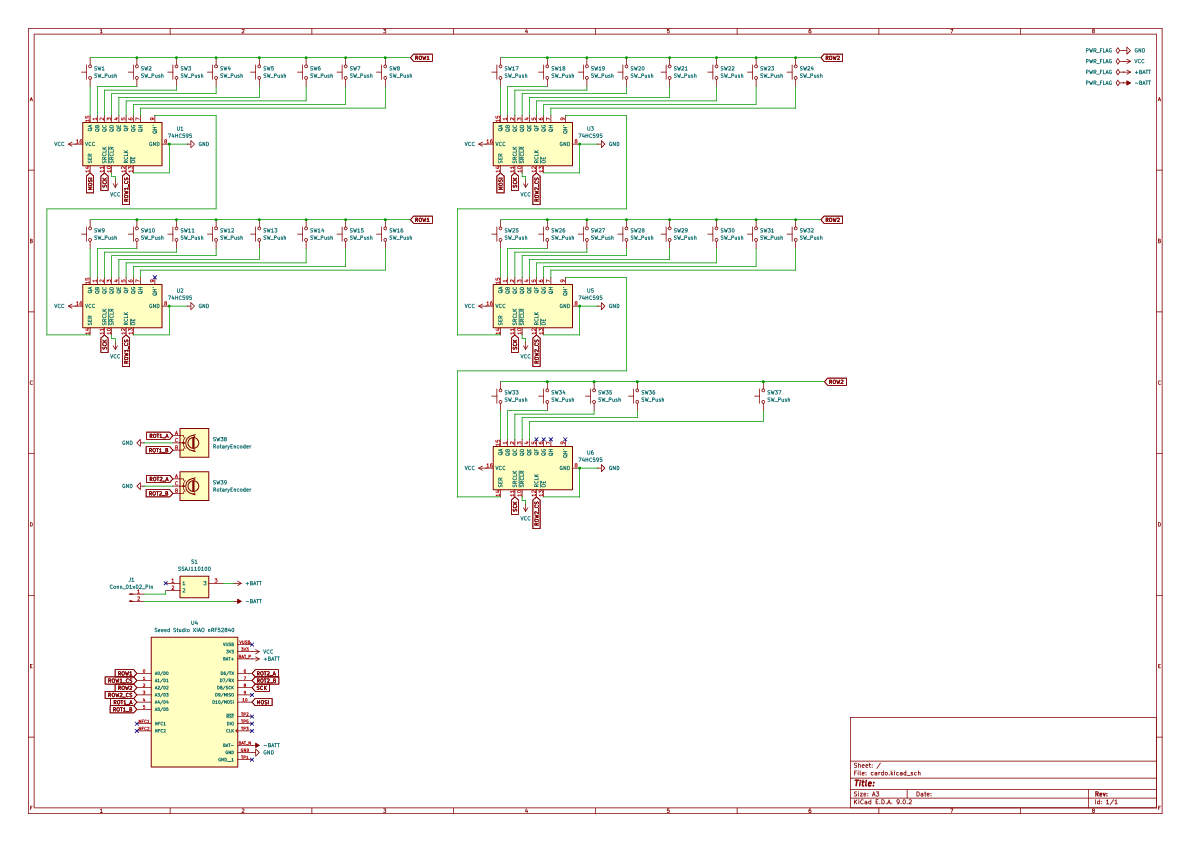
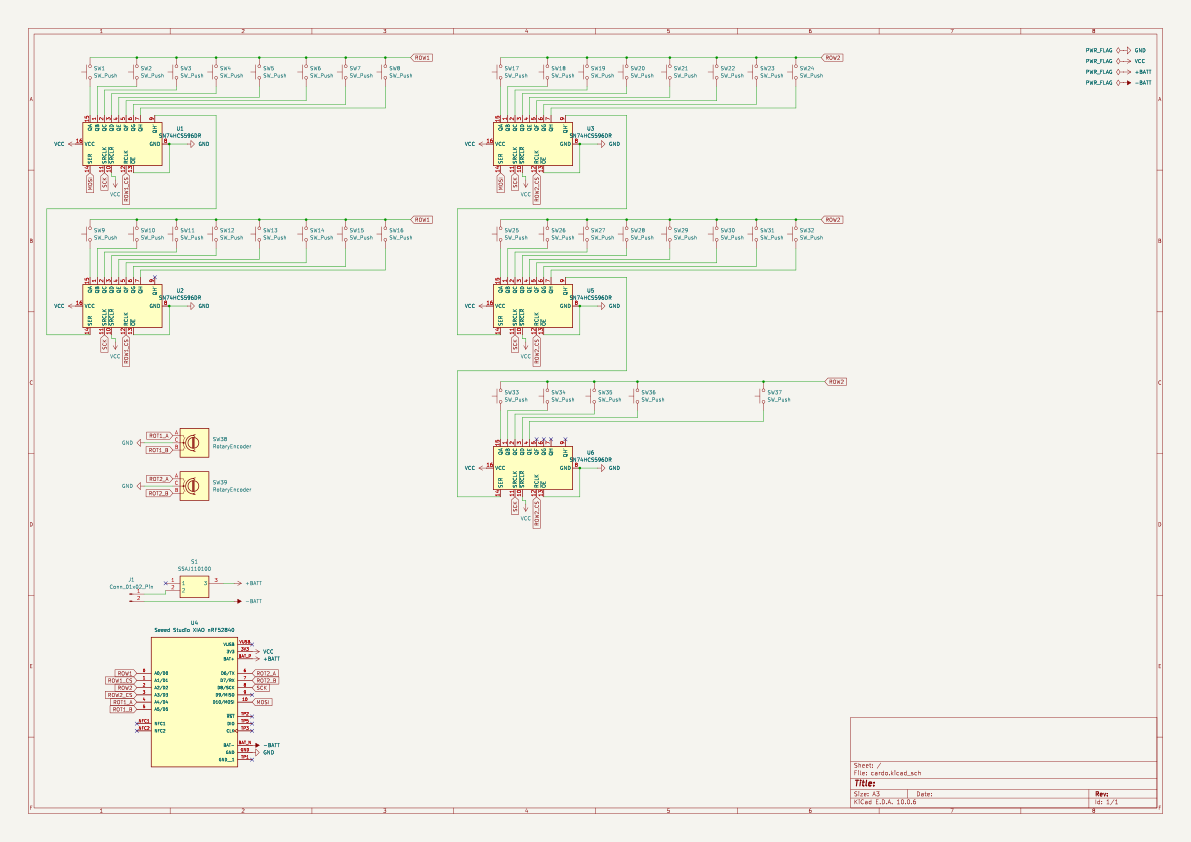
Update hardware files for SN74HCS596

diff --git a/README.md b/README.md
@@ -42,7 +42,7 @@ This is a custom ergonomic wireless keyboard. The design language is based on th
 | SSAJ110100 | 1 | Slide switch | [Mouser](https://www.mouser.dk/ProductDetail/688-SSAJ110100) |
 | 7305-0-15-15-47-27-10-0 | 74 | Mill Max 7305 "hot swap" socket | [Mouser](https://www.mouser.dk/ProductDetail/575-7305015154727100) |
 | EC05E1220401 | 2 | Rotary encoder | [Mouser](https://www.mouser.dk/ProductDetail/688-EC05E1220401) |
-| SN74HC595DR | 5 | 74HC595 shift register | [Mouser](https://www.mouser.dk/ProductDetail/595-SN74HC595DR) |
+| SN74HCS596DR | 5 | TI shift register with open-drain outputs | [Mouser](https://www.mouser.dk/ProductDetail/Texas-Instruments/SN74HCS596DR) |
 | 102010448 | 1 | Seeed XIAO nrf52840 | [Mouser](https://www.mouser.dk/ProductDetail/713-102010448) or  [Seeed studio](https://www.seeedstudio.com/Seeed-XIAO-BLE-nRF52840-p-5201.html) |
 | LPR-CHC-SNS-010 | 37 | Kailh Choc Sunset tactile V1 switches | [Splitkb](https://splitkb.com/products/sunset-kailh-low-profile-choc-switches?variant=42742153871619) |
 | KSM-MGG-1UN-010 | 34 | 1u MBK PBT Coloured Blank Keycaps | [Splitkb](https://splitkb.com/products/mbk-pbt-coloured-blank-keycaps?variant=49589854011739) |
